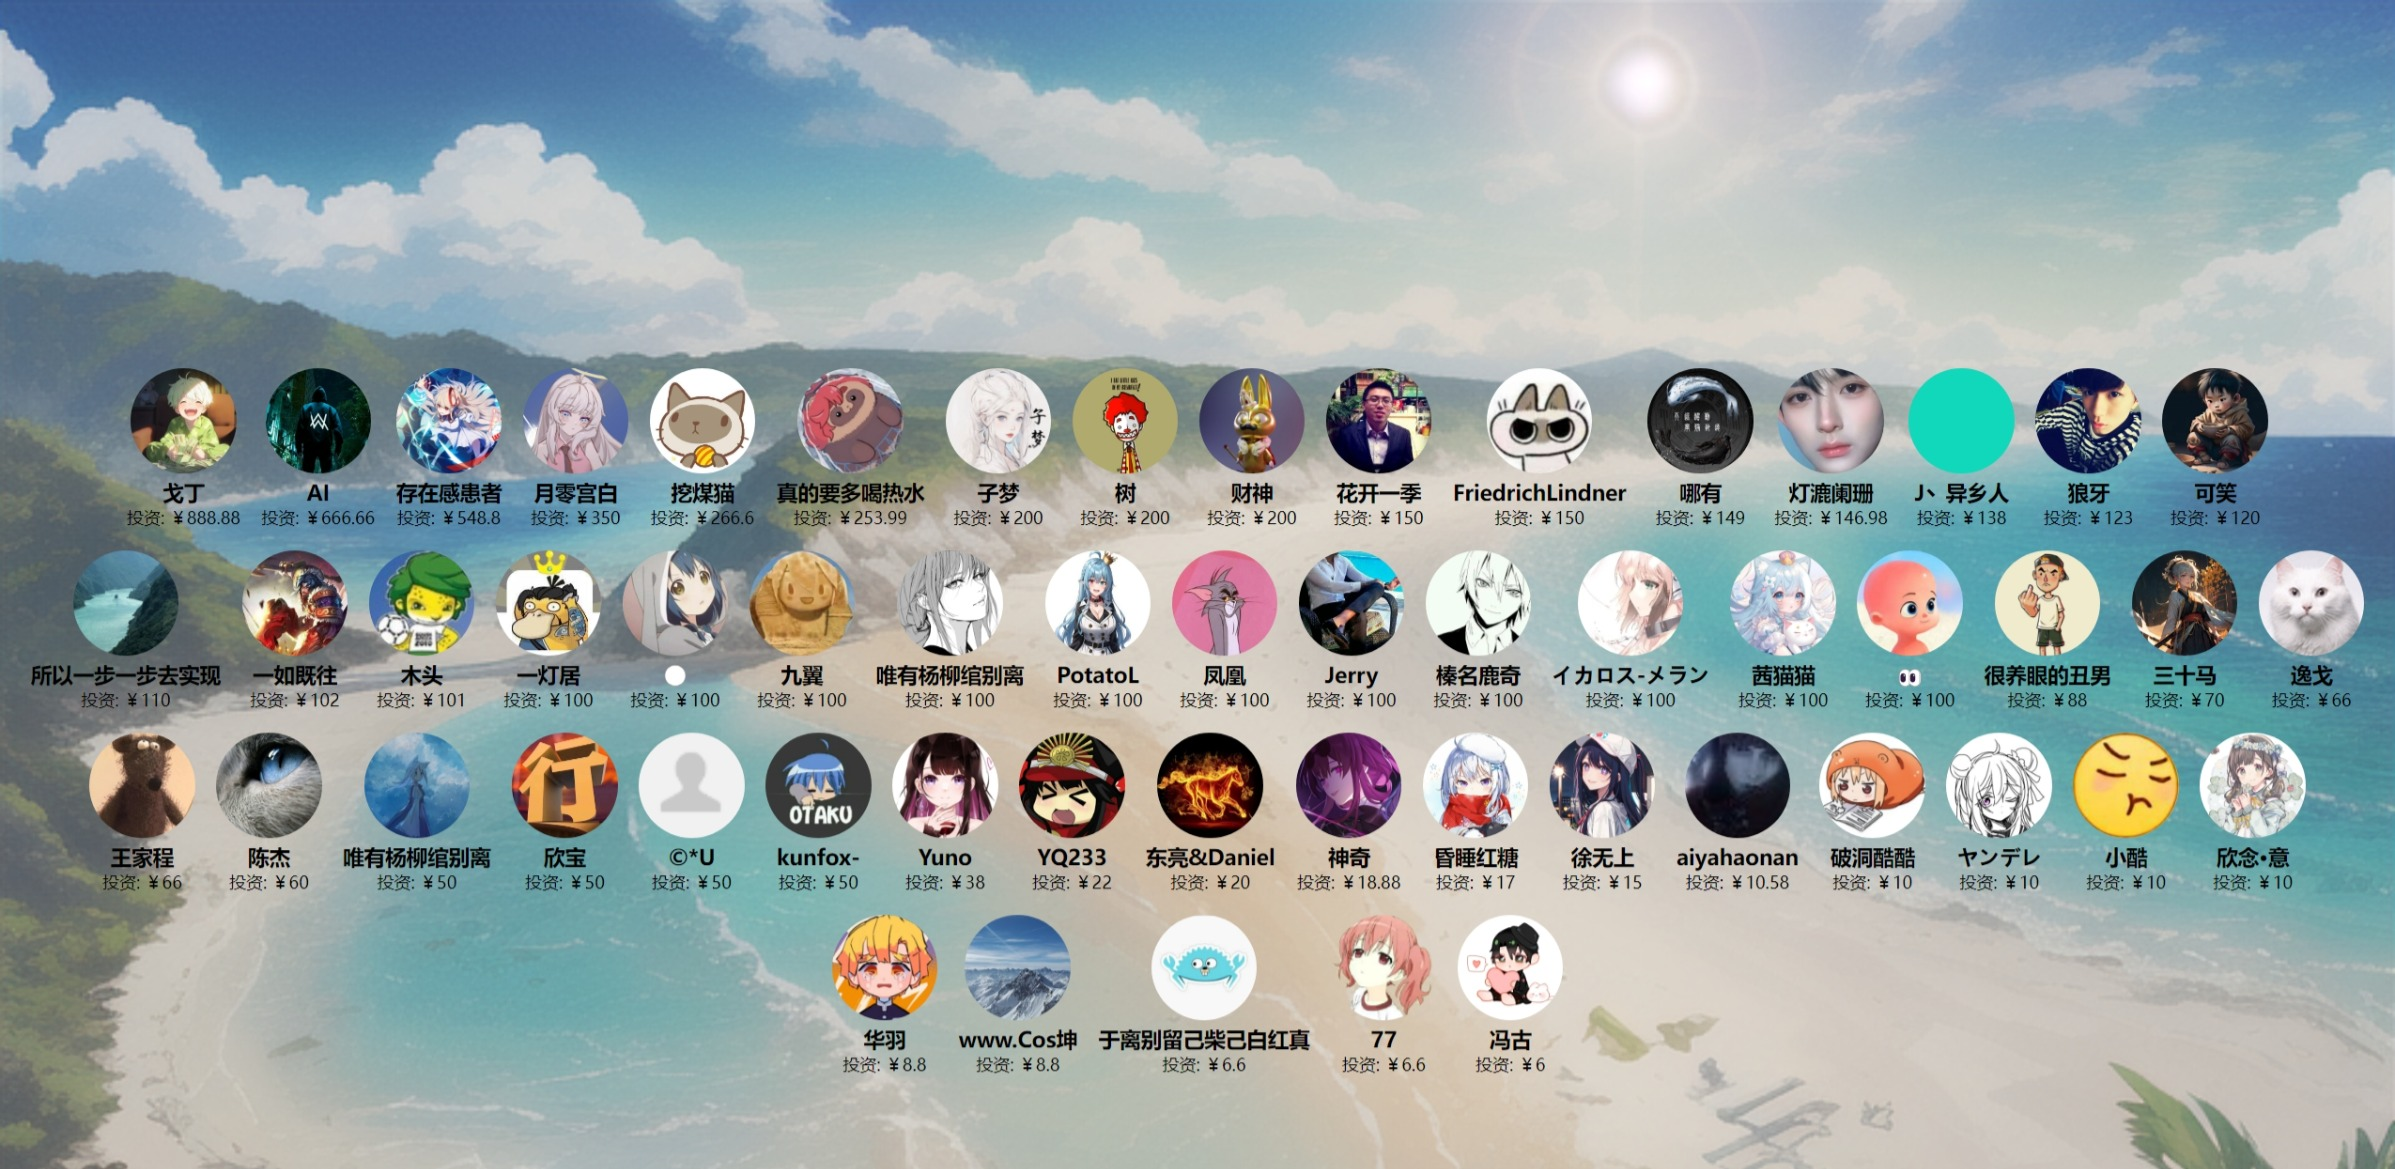
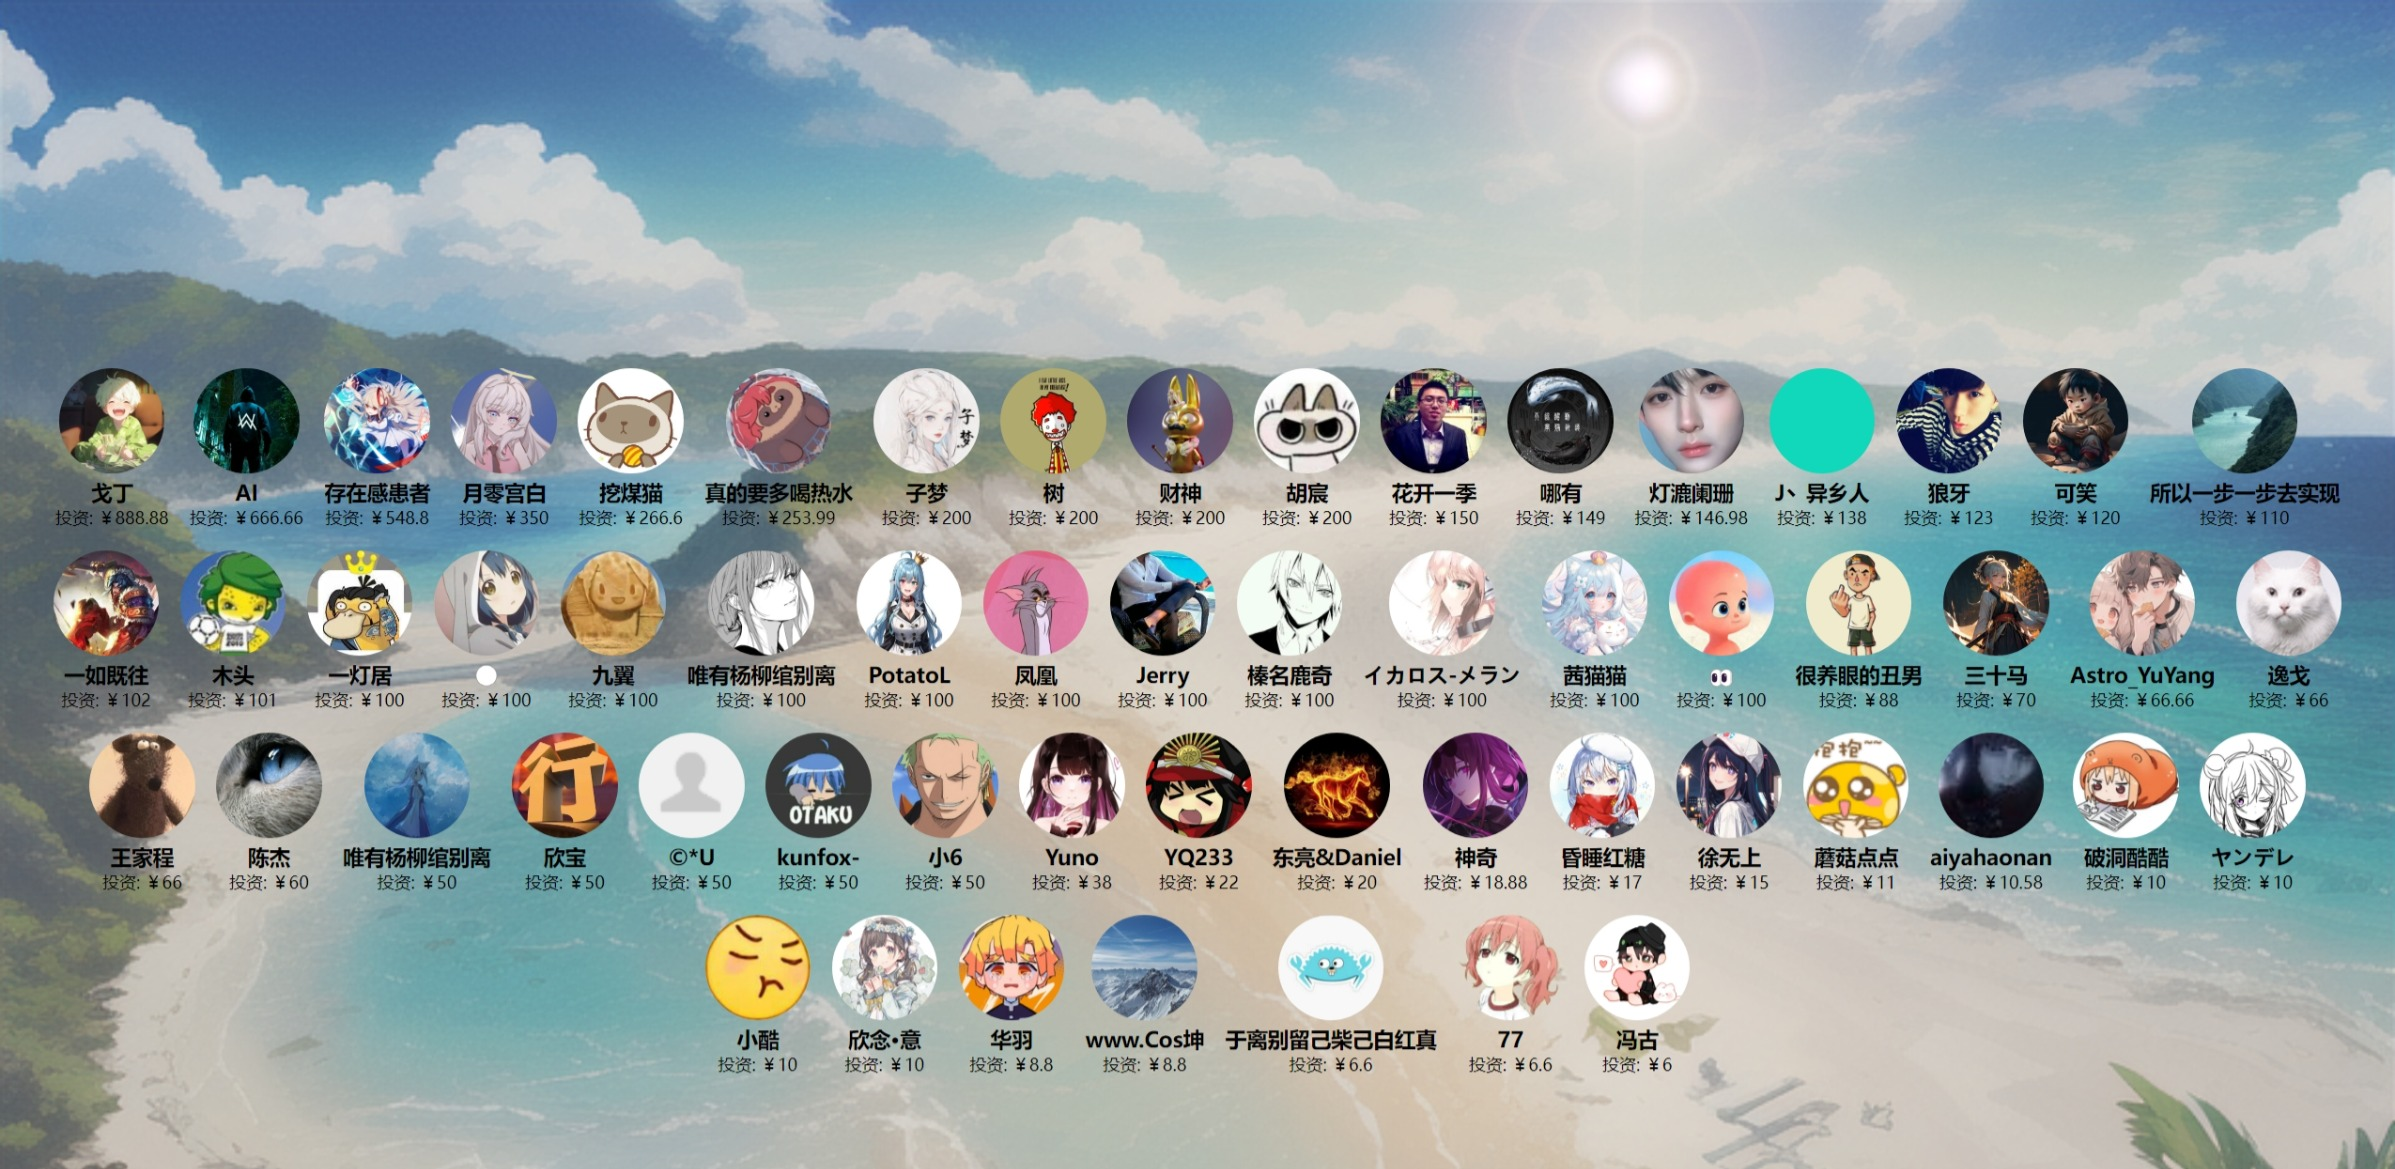
更新投资人

Changed region(s): [[0.0, 0.308, 0.9887, 0.9239]]

diff --git a/docs/投资人/index.html b/docs/投资人/index.html
@@ -97,13 +97,13 @@
             amount: "￥200"
         },
         {
-            name: "花开一季",
-            avatar: "https://images.cnblogs.com/cnblogs_com/ikaros-521/2328032/o_230817152316_QQ%E5%9B%BE%E7%89%8720230817232145.jpg",
-            amount: "￥150"
+            name: "胡宸",
+            avatar: "https://images.cnblogs.com/cnblogs_com/ikaros-521/2328032/o_230923093032_QQ%E5%9B%BE%E7%89%8720230923172945.jpg",
+            amount: "￥200"
         },
         {
-            name: "FriedrichLindner",
-            avatar: "https://images.cnblogs.com/cnblogs_com/ikaros-521/2328032/o_230923093032_QQ%E5%9B%BE%E7%89%8720230923172945.jpg",
+            name: "花开一季",
+            avatar: "https://images.cnblogs.com/cnblogs_com/ikaros-521/2328032/o_230817152316_QQ%E5%9B%BE%E7%89%8720230817232145.jpg",
             amount: "￥150"
         },
         {
@@ -212,6 +212,11 @@
             amount: "￥70"
         },
         {
+            name: "Astro_YuYang",
+            avatar: "https://images.cnblogs.com/cnblogs_com/ikaros-521/2328032/o_231126074644_QQ%E5%9B%BE%E7%89%8720231126154634.jpg",
+            amount: "￥66.66"
+        },
+        {
             name: "逸戈",
             avatar: "https://images.cnblogs.com/cnblogs_com/ikaros-521/2328032/o_230802153821_QQ%E5%9B%BE%E7%89%8720230802233731.png",
             amount: "￥66"
@@ -247,6 +252,11 @@
             amount: "￥50"
         },
         {
+            name: "小6",
+            avatar: "https://images.cnblogs.com/cnblogs_com/ikaros-521/2328032/o_231126075842_QQ%E5%9B%BE%E7%89%8720231126155821.jpg",
+            amount: "￥50"
+        },
+        {
             name: "Yuno",
             avatar: "https://images.cnblogs.com/cnblogs_com/ikaros-521/2328032/o_230719132530_QQ%E5%9B%BE%E7%89%8720230719212024.jpg",
             amount: "￥38"
@@ -275,6 +285,11 @@
             name: "徐无上",
             avatar: "https://images.cnblogs.com/cnblogs_com/ikaros-521/2328032/o_231119104314_QQ%E5%9B%BE%E7%89%8720231119184129.jpg",
             amount: "￥15"
+        },
+        {
+            name: "蘑菇点点",
+            avatar: "https://images.cnblogs.com/cnblogs_com/ikaros-521/2328032/o_231126074533_QQ%E5%9B%BE%E7%89%8720231126154211.jpg",
+            amount: "￥11"
         },
         {
             name: "aiyahaonan",
